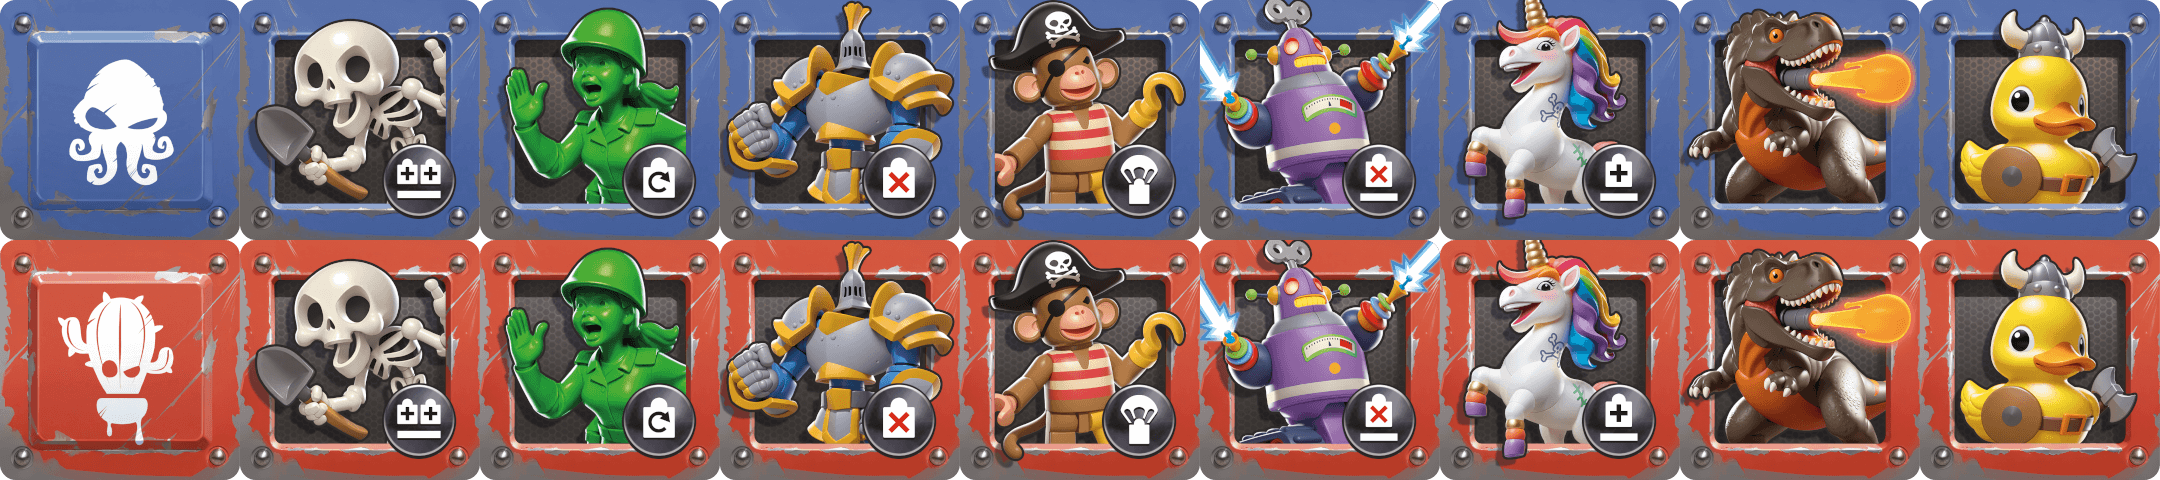
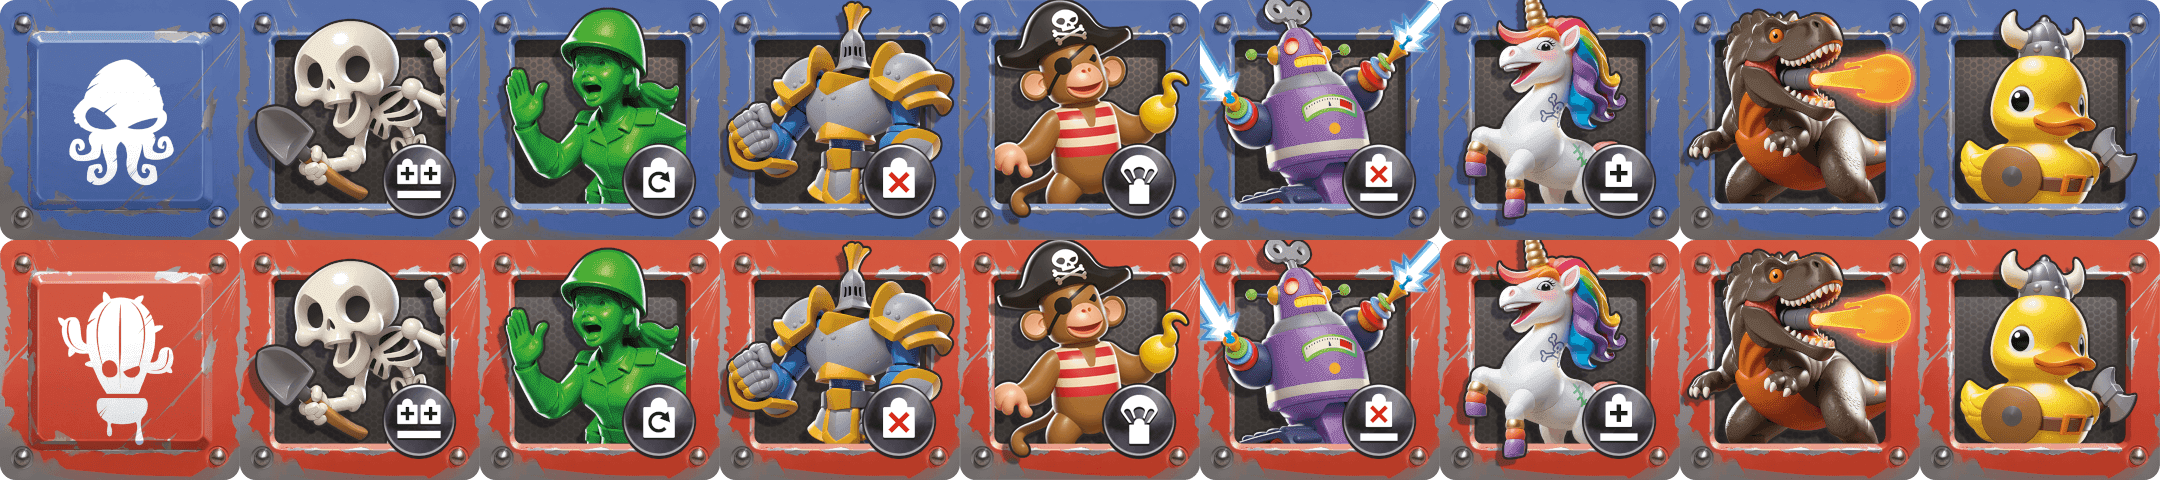
new singe

Changed region(s): [[0.4343, 0.5, 0.5583, 0.9688], [0.4343, 0.0, 0.5583, 0.4688]]

diff --git a/modules/php/Pending.php b/modules/php/Pending.php
@@ -938,8 +938,7 @@ class Pending extends APP_GameClass
             game::$instance->incStat(1, 'win_by_hq');
         }
 
-        if($troop_victory != 4)
-        {
+        
         game::$instance->notifyAllPlayers(
             'victory',
             '',
@@ -950,7 +949,7 @@ class Pending extends APP_GameClass
 
             )
         );
-        }
+        
 
         game::$instance->notifyAllPlayers('simplePause', '', ['time' => 1000]);
 